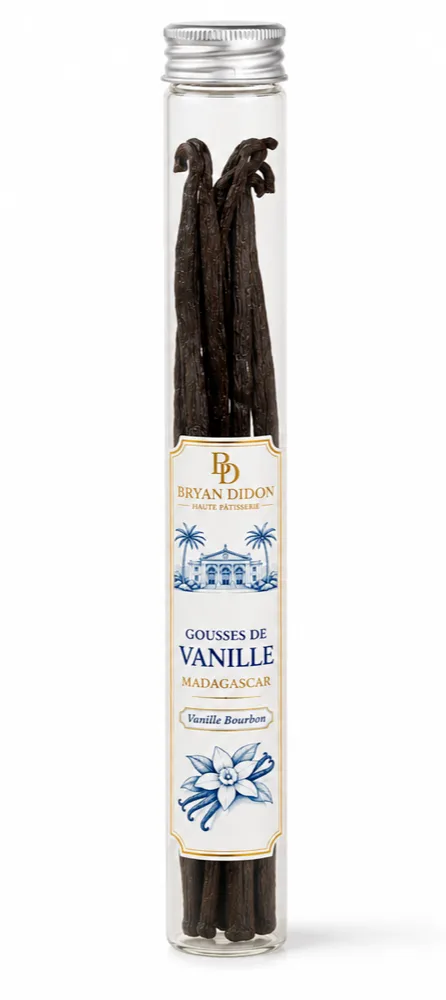
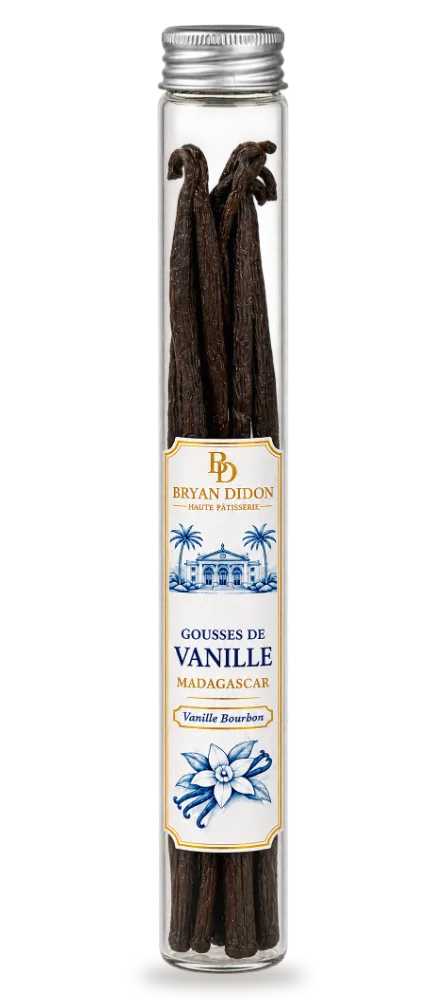
Vanille : nouvelle photo du tube (fond transparent) ; fusion du fond blanc rétablie pour la photo des gousses

Changed region(s): [[0.3206, 0.0, 0.7578, 0.992]]

diff --git a/styles.css b/styles.css
@@ -295,7 +295,6 @@ p { margin: 0 0 1em; }
 .rail__carte:hover { background: rgba(255, 255, 255, .7); border-color: var(--or); }
 .rail__img { width: 100%; height: 150px; object-fit: contain; margin-bottom: 1rem; transition: transform .6s var(--ease); }
 .rail__carte:hover .rail__img { transform: scale(1.04); }
-.rail__img--fond-blanc { mix-blend-mode: multiply; filter: brightness(1.04); }
 .rail__saison { font-family: var(--capitale); font-size: .68rem; letter-spacing: .22em; text-transform: uppercase; color: var(--or); }
 .rail__nom { margin: .35rem 0 .5rem; font-size: 1.4rem; line-height: 1.15; color: var(--nuit); }
 .rail__prix { margin-top: auto; font-size: 1.3rem; color: var(--nuit); }
@@ -491,7 +490,7 @@ p { margin: 0 0 1em; }
 /* Deux photos verticales côte à côte (vanille) */
 .produit__photos--duo { grid-template-columns: minmax(0, 446fr) minmax(0, 606fr); align-items: end; max-width: 30rem; margin: 0 auto; }
 /* Photo sur fond blanc : le blanc se fond dans le marbre */
-.produit__photo--fond-blanc, .vitrine__media img[src*="vanille-"], .autres__carte img[src*="vanille-"],
+.produit__photo--fond-blanc { mix-blend-mode: multiply; filter: brightness(1.04); }
 .produit__texte { text-align: center; }
 .produit__texte .lys { margin-bottom: .9rem; }
 .produit__titre { font-size: clamp(2.1rem, 1.6rem + 2.4vw, 3.4rem); line-height: 1.08; color: var(--nuit); margin-bottom: .45em; }
@@ -572,7 +571,6 @@ p { margin: 0 0 1em; }
 }
 .maison__vignettes a:hover { background: rgba(255, 255, 255, .7); border-color: var(--or); }
 .maison__vignettes img { height: 90px; width: auto; max-width: 100%; object-fit: contain; }
-.maison__vignettes img[src*="vanille-"] { mix-blend-mode: multiply; filter: brightness(1.04); }
 
 /* ---------- Contact (/contact) ---------- */
 .contact { max-width: 40rem; margin: clamp(2rem, 5vw, 3.5rem) auto 0; padding: clamp(1.5rem, 4vw, 2.75rem); border: 1px solid var(--trait); background: rgba(255, 255, 255, .45); }

diff --git a/vanille.html b/vanille.html
@@ -93,7 +93,7 @@
     <article class="produit__entete" aria-labelledby="produit-titre">
       <div class="produit__media">
         <div class="produit__photos produit__photos--duo">
-          <img class="produit__photo produit__photo--fond-blanc" src="images/vanille-tube.webp" width="446" height="1000"
+          <img class="produit__photo" src="images/vanille-tube.webp" width="446" height="1000"
                alt="Tube en verre de gousses de vanille de Madagascar, étiquette Bryan Didon">
           <img class="produit__photo produit__photo--fond-blanc" src="images/vanille-gousses.webp" width="606" height="1000" loading="lazy"
                alt="Cinq gousses de vanille Bourbon de Madagascar, charnues et brillantes">

diff --git a/index.html b/index.html
@@ -218,7 +218,7 @@
           </li>
           <li class="rail__item">
             <a class="rail__carte" href="/vanille">
-              <img class="rail__img rail__img--fond-blanc" src="images/vanille-tube.webp" width="446" height="1000" alt="" loading="lazy">
+              <img class="rail__img" src="images/vanille-tube.webp" width="446" height="1000" alt="" loading="lazy">
               <span class="rail__saison">Épicerie fine</span>
               <span class="rail__nom">La vanille de Madagascar</span>
               <span class="rail__prix"><span>à partir de</span> 5&nbsp;€</span>
